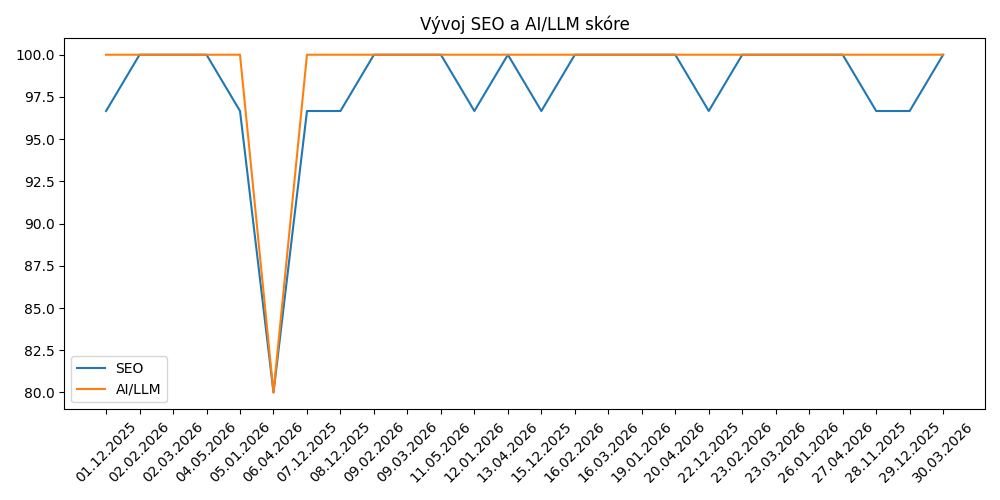
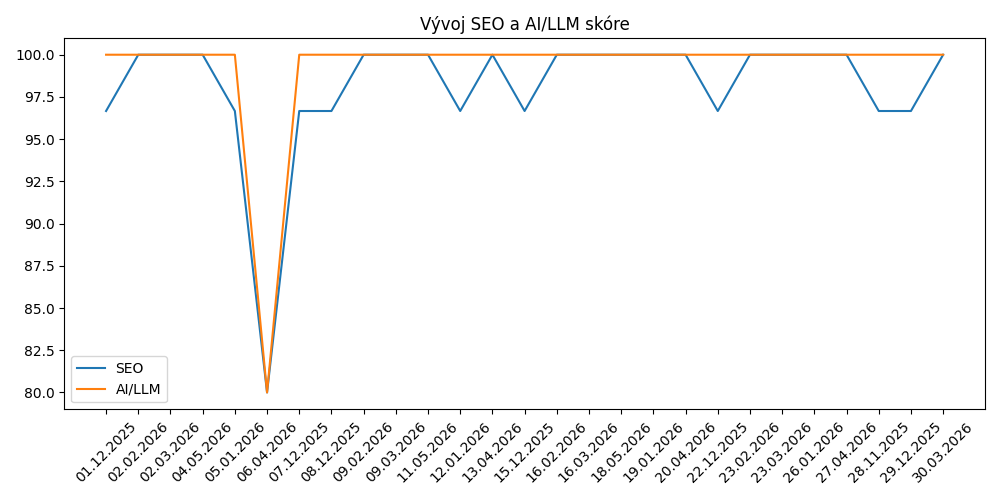
Automatický týdenní report

diff --git a/reports/report_18.05.2026.md b/reports/report_18.05.2026.md
@@ -1,0 +1,35 @@
+# Týdenní report – 18.05.2026
+
+## 📈 Vývoj Performance
+![Performance](../reports/performance_trend.png)
+
+## 📘 Vývoj SEO + AI/LLM skóre
+![SEO AI](../reports/seo_ai_trend.png)
+
+## 🔵 https://www.o2.cz/
+
+### 📱 Mobile Performance: **0**
+### 🖥 Desktop Performance: **0**
+### 🔍 SEO: **100**
+### 🤖 AI/LLM: **100**
+
+### ✔ Obrázky jsou v pořádku
+
+## 🔵 https://www.o2.cz/osobni/o2spolu
+
+### 📱 Mobile Performance: **0**
+### 🖥 Desktop Performance: **0**
+### 🔍 SEO: **100**
+### 🤖 AI/LLM: **100**
+
+### ✔ Obrázky jsou v pořádku
+
+## 🔵 https://www.o2.cz/osobni/oneplay
+
+### 📱 Mobile Performance: **0**
+### 🖥 Desktop Performance: **0**
+### 🔍 SEO: **100**
+### 🤖 AI/LLM: **100**
+
+### ✔ Obrázky jsou v pořádku
+